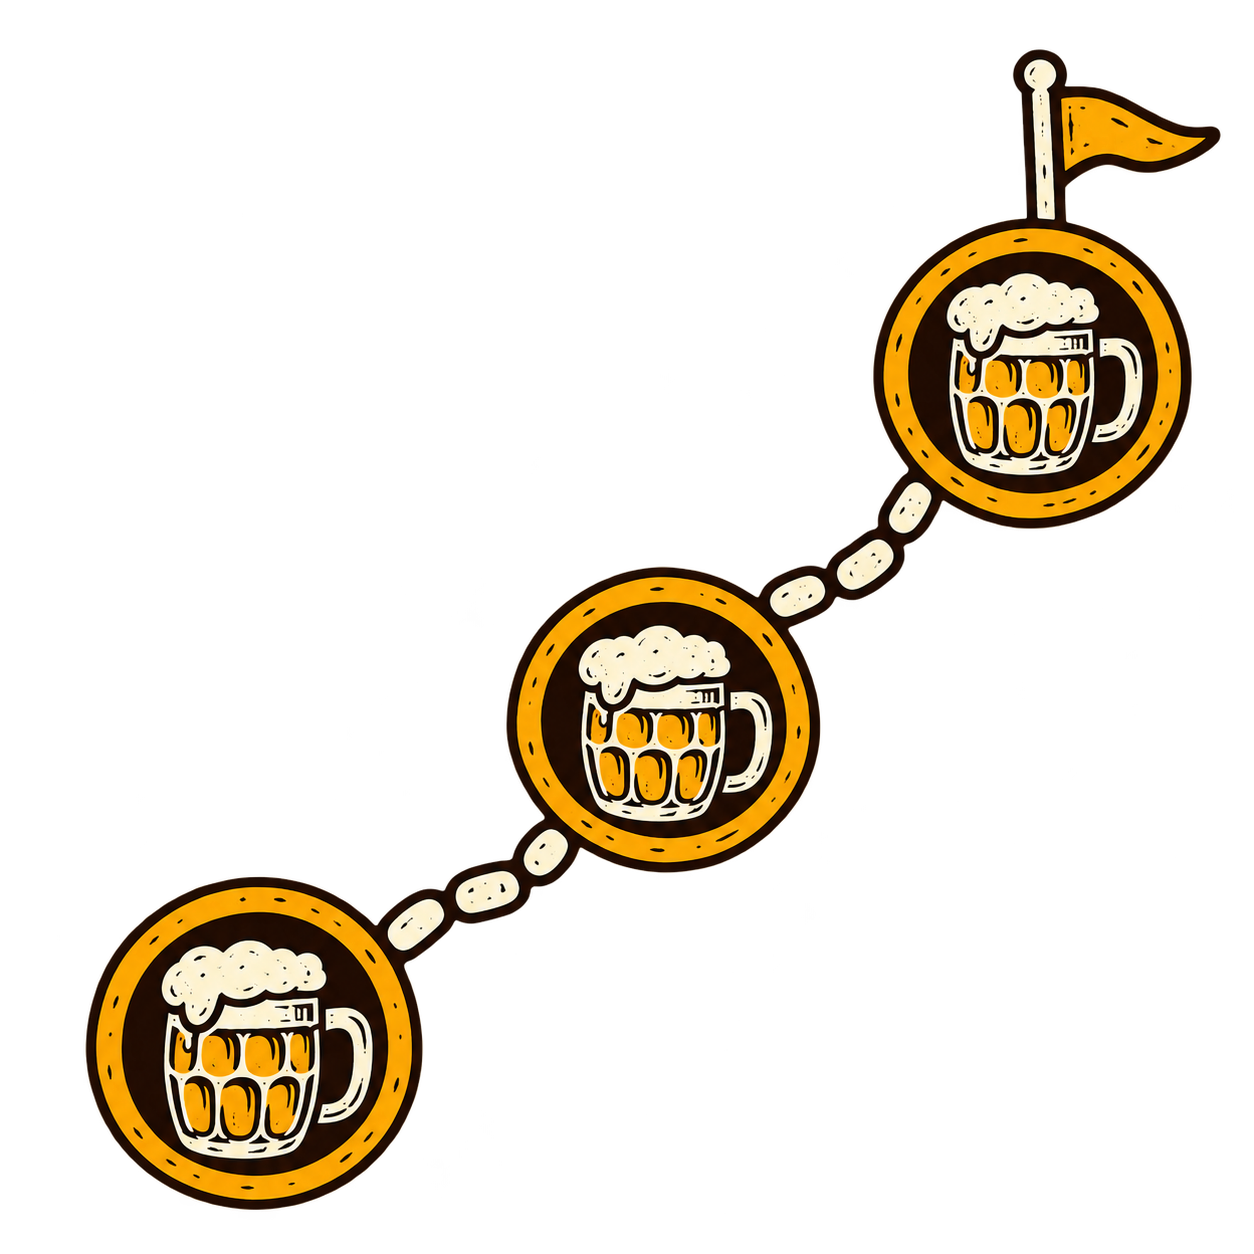
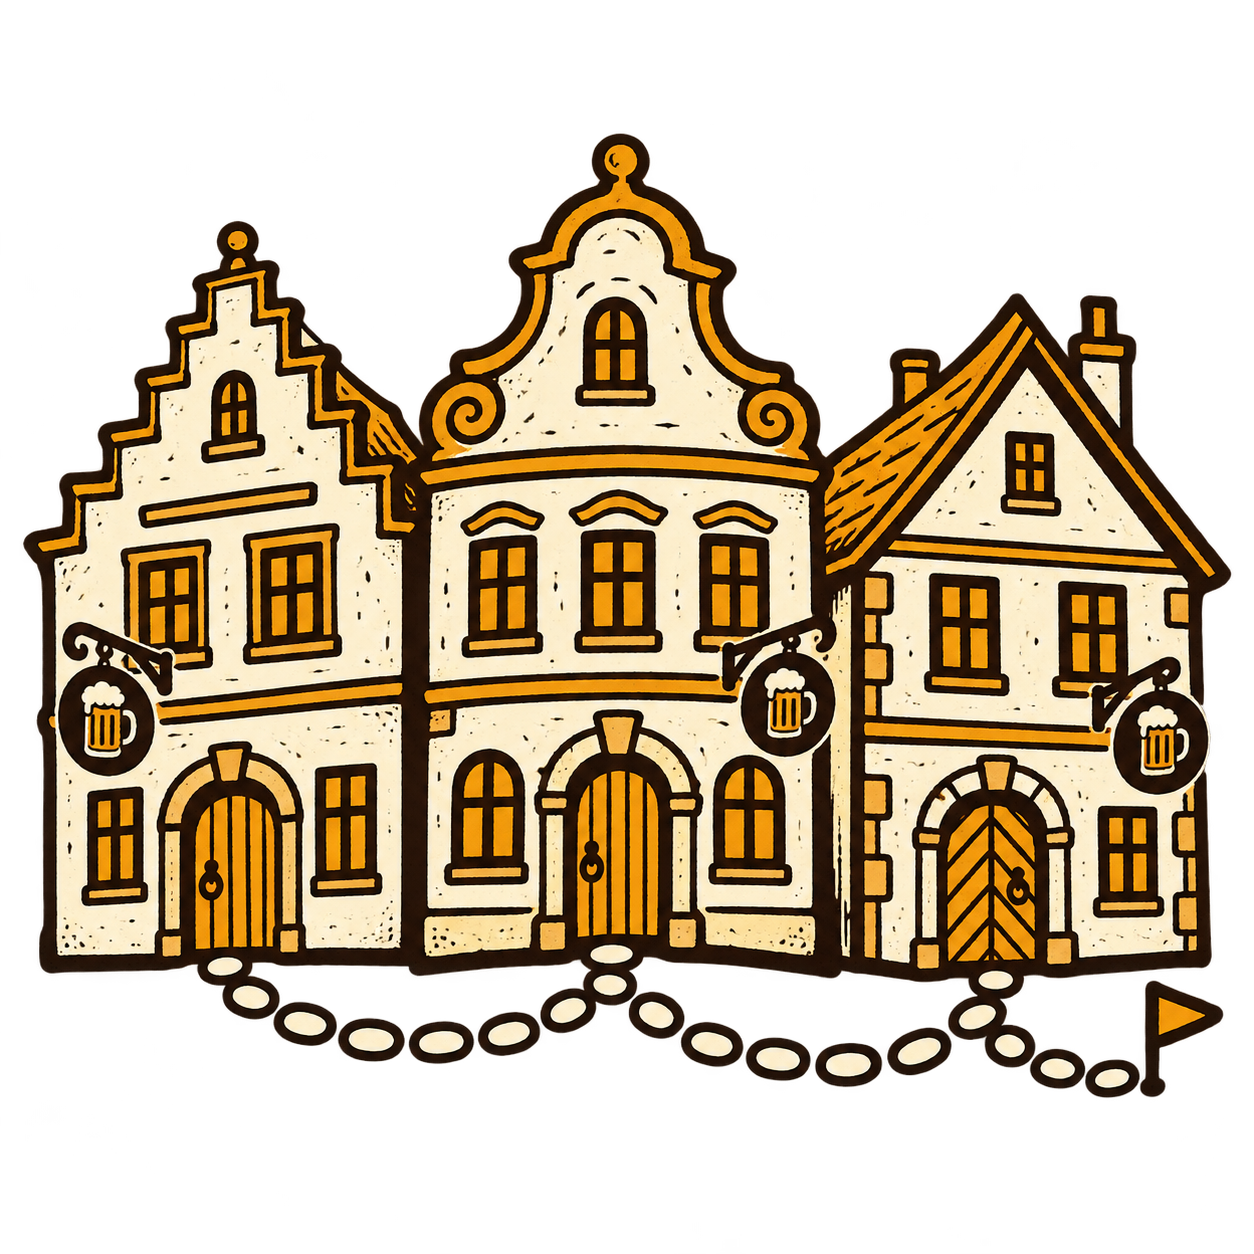
fix: state the table add conditions and redraw the tour card

diff --git a/src/i18n/en.ts b/src/i18n/en.ts
@@ -2333,19 +2333,19 @@ export const en: Strings = {
       skip: 'Skip',
       slide1Title: 'Plan a pub crawl',
       slide1Body:
-        'Pick two to eight pubs, send your crew a link and head out. On the way I show how far it is on foot and what each pub has on tap. Find it under Tour in the Crew tab.',
+        "Pick two to eight pubs, send your crew a link and head out. I'll show how far each walk is and what's on tap. Find it under Tour in the Crew tab.",
       slide1Next: 'Continue',
-      slide2Title: 'Every pub has its own page',
+      slide2Title: 'Look inside any pub',
       slide2Body:
-        "Tap a pub to see what's on tap and for how much, when it's open and what events are coming up. Tap the heart to save it to your favourite pubs.",
-      slide2Next: "What's next",
+        "Open any pub to see what's on tap and at what price, its opening hours and upcoming events. The heart saves it to your favourite pubs.",
+      slide2Next: "There's more",
       slide3Title: 'Your crew at the table',
       slide3Body:
-        'Add the people sitting with you in the pub right from the table. You both just open it in the Crew tab. And you can ping just a few picked friends instead of the whole crew.',
+        'Been in the same pub for 15 minutes? Both log it, then tap “Add people at your table” in the Crew tab. You can also ping just the friends you pick.',
       slide3Next: 'One more thing',
       slide4Title: 'Last ride home',
       slide4Body:
-        'With a home point in Settings, I show your last direct connection home during the night and can remind you 20 minutes before it leaves. Prague area only for now.',
+        "Set a home point in Settings and I'll show your last direct ride home while your night is on, with an optional reminder 20 minutes before it leaves. Prague area only for now.",
       slide4Done: "Let's get a beer",
     },
   },

diff --git a/src/i18n/cs.ts b/src/i18n/cs.ts
@@ -2936,17 +2936,17 @@ export const cs = {
     },
     v220: {
       skip: 'Přeskočit',
-      slide1Title: 'Naplánuj tah po hospodách',
+      slide1Title: 'Naplánuj tah po\u00a0hospodách',
       slide1Body:
         'Vyber dvě až osm hospod, pošli partě odkaz a vyrazte. Po cestě ukážu, kolik je to pěšky a co kde čepujou. Najdeš to v Partě pod tlačítkem Tour.',
       slide1Next: 'Pokračovat',
-      slide2Title: 'Každá hospoda má svou stránku',
+      slide2Title: 'Nahlédni do hospody',
       slide2Body:
-        'Klepni na hospodu a uvidíš, co tam čepujou a za kolik, kdy mají otevřeno a jaké akce chystají. Oblíbené si ulož srdíčkem do srdcovek.',
+        'Klepni na hospodu a uvidíš, co tam čepujou a za kolik, kdy mají otevřeno a jaké akce chystají. Srdíčkem si ji uložíš do srdcovek.',
       slide2Next: 'Další novinka',
       slide3Title: 'Parta u stolu',
       slide3Body:
-        'Kdo s tebou sedí v hospodě, toho si přidáš rovnou od stolu. Stačí, když si to v Partě otevřete oba. A cinknout můžeš i jen pár vybraným kámošům.',
+        'Sedíte spolu v hospodě aspoň čtvrt hodiny? Zapište si ji oba a v Partě klepněte na „Přidej lidi od stolu“. A cinknout teď můžeš i jen pár vybraným kámošům.',
       slide3Next: 'Ještě jedna věc',
       slide4Title: 'Poslední spoj domů',
       slide4Body:

diff --git a/src/data/__tests__/localReleaseNote.test.ts b/src/data/__tests__/localReleaseNote.test.ts
@@ -13,7 +13,7 @@ describe('bundled release pagers', () => {
           },
           v220: {
             slide1Title: locale === 'cs' ? 'Naplánuj tah po hospodách' : 'Plan a pub crawl',
-            slide2Title: locale === 'cs' ? 'Každá hospoda má svou stránku' : 'Every pub has its own page',
+            slide2Title: locale === 'cs' ? 'Nahlédni do hospody' : 'Look inside any pub',
             slide3Title: locale === 'cs' ? 'Parta u stolu' : 'Your crew at the table',
             slide4Title: locale === 'cs' ? 'Poslední spoj domů' : 'Last ride home',
           },
